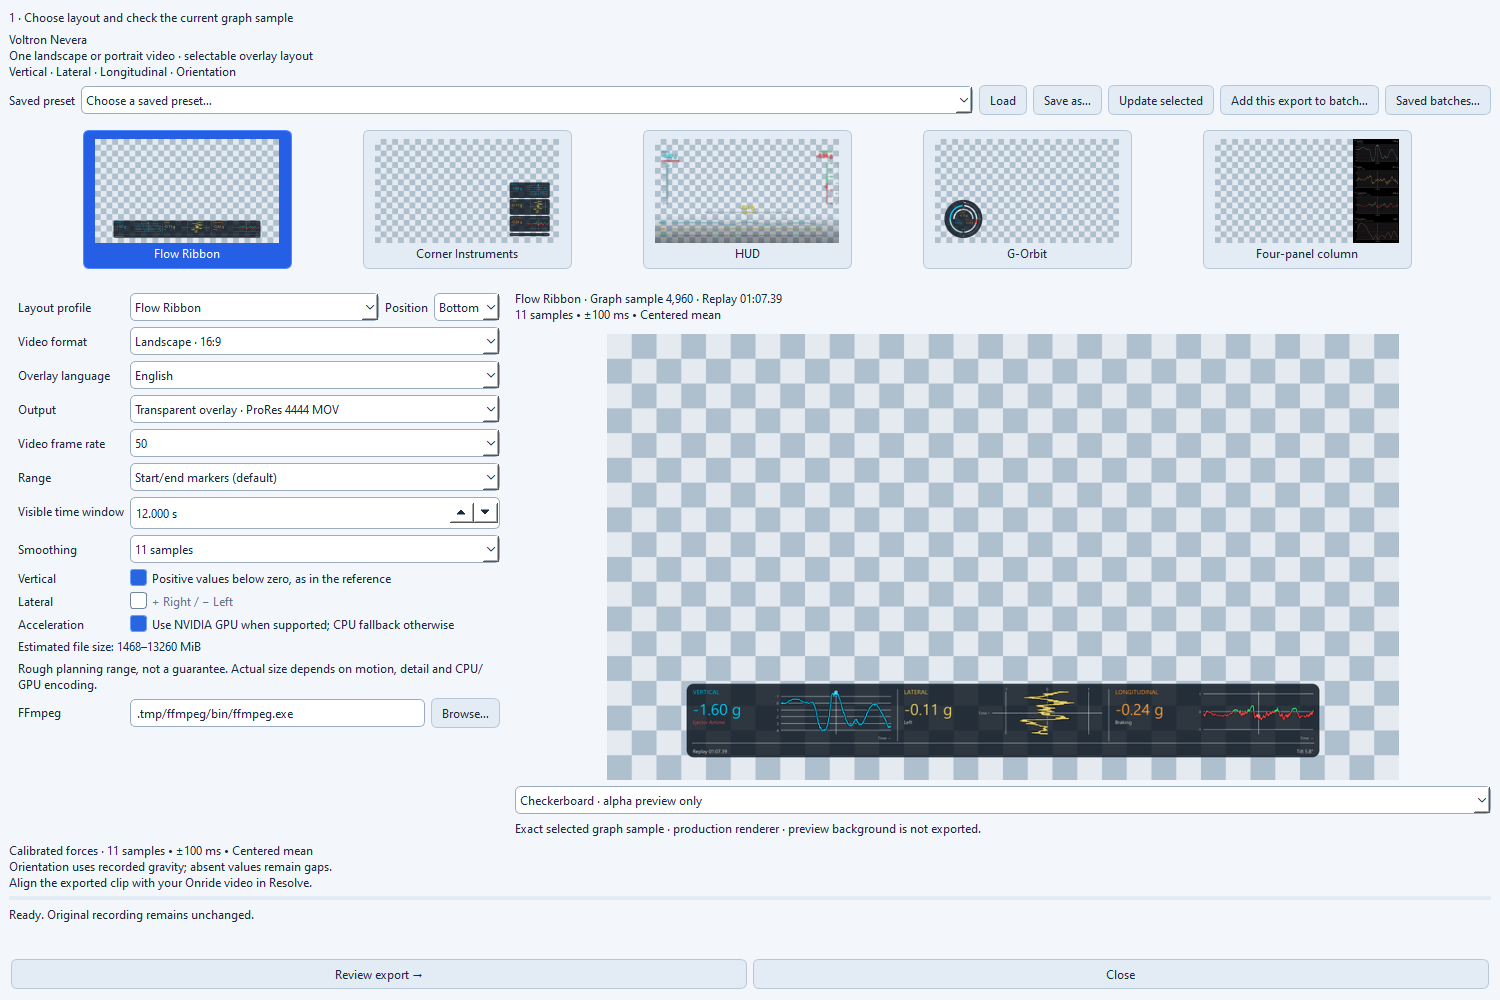
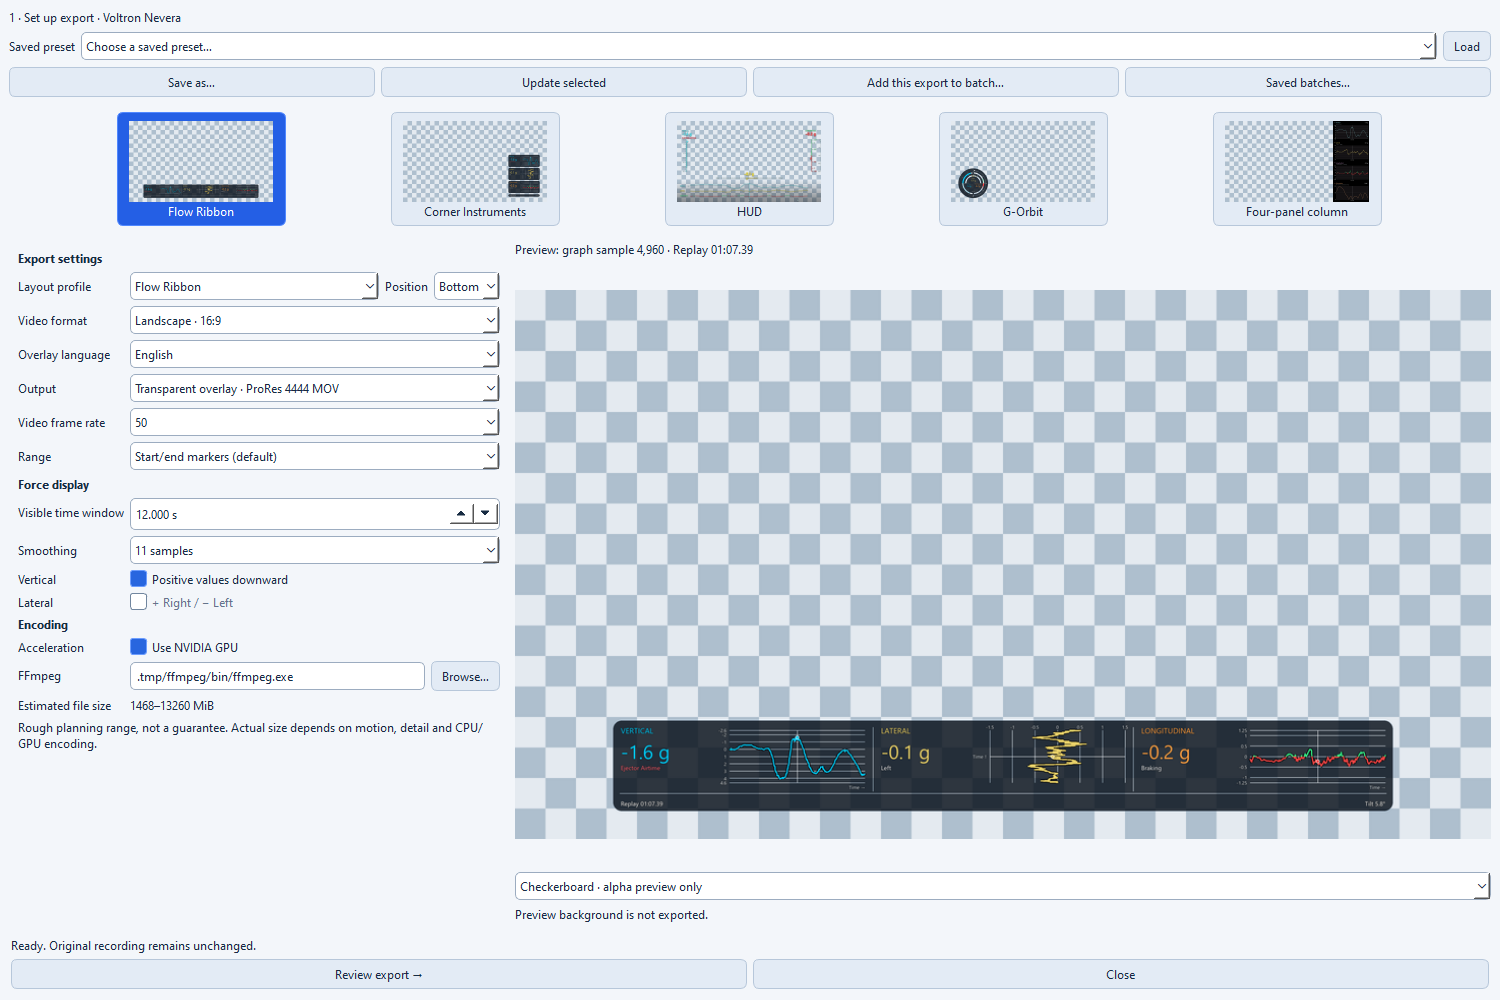
:package: build(packaging): prepare stable release 1.1.0
Why:
Publish the current application and documentation as stable version 1.1.0.

Changes:
- Update application metadata, release examples and version assertions.
- Refresh workspace, GPS, appearance and export-layout reference images.
- Separate G-Orbit endpoint labels at the shared poles and add a regression test.
- Align layout documentation with the 1 g vertical reference.

diff --git a/tests/rendering/test_rendering.py b/tests/rendering/test_rendering.py
@@ -2,7 +2,7 @@
 
 from ride_forces_analyzer.rendering.model import StandardFrameRate
 
-# cspell:words ffprobe frombytes getcolor getcolors getrgb getpixel getchannel getextrema hwupload prores qscale rawvideo libx
+# cspell:words ffprobe frombytes getcolor getcolors getrgb getpixel getchannel getextrema hwupload prores qscale rawvideo libx textbbox
 
 from dataclasses import replace
 from fractions import Fraction
@@ -14,7 +14,7 @@ from threading import Event
 from typing import Literal, cast
 from unittest.mock import patch
 
-from PIL import Image, ImageColor
+from PIL import Image, ImageColor, ImageDraw
 import pytest
 
 from ride_forces_analyzer.analysis.orientation import orientation_degrees
@@ -40,6 +40,29 @@ from ride_forces_analyzer.rendering.layouts.column import BACKGROUND_COLOR, Colu
 from ride_forces_analyzer.rendering.layouts.orbit import OrbitRenderer
 from ride_forces_analyzer.rendering.layouts.hud import HudRenderer
 from tests.support.recordings import REAL_FIXTURE_DIRECTORY, REAL_FIXTURES
+
+
+def test_orbit_outer_scale_endpoint_labels_do_not_overlap(manta: ExplorerData) -> None:
+    assert manta.analysis is not None
+    timeline = prepare_export(manta.analysis, ExportSettings(layout=ExportLayout.ORBIT), 3600, 3699)
+    renderer = OrbitRenderer(timeline)
+    with patch.object(OrbitRenderer, "_text") as text:
+        image = renderer.render_position(3600)
+    draw = ImageDraw.Draw(image)
+    labels = [call.args for call in text.call_args_list if call.args[5] in ("rm", "lm")]
+    assert len(labels) == 4
+    for vertical in (label for label in labels if label[5] == "rm"):
+        longitudinal = next(
+            label for label in labels if label[5] == "lm" and abs(label[1][1] - vertical[1][1]) < 1
+        )
+        left_box = draw.textbbox(vertical[1], vertical[2], font=vertical[3], anchor=vertical[5])
+        right_box = draw.textbbox(
+            longitudinal[1],
+            longitudinal[2],
+            font=longitudinal[3],
+            anchor=longitudinal[5],
+        )
+        assert left_box[2] < right_box[0]
 
 
 @pytest.mark.parametrize(

diff --git a/src/ride_forces_analyzer/rendering/layouts/orbit.py b/src/ride_forces_analyzer/rendering/layouts/orbit.py
@@ -327,13 +327,19 @@ class OrbitRenderer(Drawing):
                     if row == 0 and tick == reference
                     else FORCE_TICK_WIDTH,
                 )
+                label_x, label_y = point(radius + FORCE_TICK_LABEL_OFFSET, a)
+                anchor = TEXT_ANCHOR
+                if row in (0, 2) and tick in (channel.low, channel.high):
+                    # Both outer scales meet at the poles; keep their labels on their own side.
+                    label_x += -12 if row == 0 else 12
+                    anchor = "rm" if row == 0 else "lm"
                 self._text(
                     draw,
-                    point(radius + FORCE_TICK_LABEL_OFFSET, a),
+                    (label_x, label_y),
                     f"{tick:g}",
                     self.tick,
                     SCALE_COLOR,
-                    TEXT_ANCHOR,
+                    anchor,
                 )
             x, y = READOUT_POSITIONS[row]
             self._text(

diff --git a/tests/packaging/test_windows_packages.py b/tests/packaging/test_windows_packages.py
@@ -47,7 +47,7 @@ def test_qt_gui_hook_excludes_only_pdf_plugins(monkeypatch: pytest.MonkeyPatch) 
     assert result["datas"] == [("translations/qtbase_de.qm", "translations")]
 
 
-@pytest.mark.parametrize("version,flags", [("1.0.0", 0), ("1.2.3", 0), ("1.2.3rc2", 2)])
+@pytest.mark.parametrize("version,flags", [("1.1.0", 0), ("1.2.3", 0), ("1.2.3rc2", 2)])
 def test_version_resource_preserves_unicode_and_project_version(
     export_directory: Path,
     version: str,
@@ -81,7 +81,7 @@ def test_version_resource_preserves_unicode_and_project_version(
         if isinstance(node.func, ast.Name) and node.func.id == "FixedFileInfo"
     )
     values = {item.arg: ast.literal_eval(item.value) for item in fixed.keywords}
-    numeric = (1, 0, 0, 0) if version == "1.0.0" else (1, 2, 3, 0)
+    numeric = (1, 1, 0, 0) if version == "1.1.0" else (1, 2, 3, 0)
     assert values == {"filevers": numeric, "prodvers": numeric, "flags": flags}
 
 

diff --git a/tests/packaging/test_release_policy.py b/tests/packaging/test_release_policy.py
@@ -19,13 +19,13 @@ verify_merged_prs = cast(Callable[[object, str], None], MODULE["verify_merged_pr
 
 @pytest.mark.parametrize(
     "version,preview",
-    [("0.1.0", True), ("1.0.0", False), ("1.0.0rc1", True)],
+    [("0.1.0", True), ("1.1.0", False), ("1.1.0rc1", True)],
 )
 def test_release_classification(version: str, preview: bool) -> None:
     assert is_prerelease(f"v{version}", version) is preview
 
 
-@pytest.mark.parametrize("tag,version", [("v0.3.1", "0.1.0"), ("v1.0.0", "invalid")])
+@pytest.mark.parametrize("tag,version", [("v0.3.1", "0.1.0"), ("v1.1.0", "invalid")])
 def test_bad_release_version_is_rejected(tag: str, version: str) -> None:
     with pytest.raises(ValueError, match="project.version"):
         is_prerelease(tag, version)

diff --git a/src/ride_forces_analyzer/__init__.py b/src/ride_forces_analyzer/__init__.py
@@ -4,4 +4,4 @@ Copyright (c) 2026 Björn Rudner.
 SPDX-License-Identifier: GPL-3.0-or-later
 """
 
-__version__ = "1.0.0"
+__version__ = "1.1.0"

diff --git a/docs/development/RELEASE.md b/docs/development/RELEASE.md
@@ -23,8 +23,7 @@ policy, package construction and publication.
   be contained in `origin/main` and associated with a merged PR targeting this
   repository's `main`. Full CI, including mandatory Gitleaks history scanning,
   must pass for that same revision.
-- Version `1.0.0` is the first stable release. Stable releases use plain numeric
-  versions and are published as the latest release.
+- Stable releases use plain numeric versions and are published as the latest release.
 - Paid code signing and macOS notarization are not release gates; the
   [distribution constraints](../architecture/02_architecture_constraints.md#distribution-constraints)
   define the accepted signing limitations.
@@ -51,7 +50,7 @@ To retry publication of an existing tag after a workflow correction, dispatch th
 current workflow from `main` with the `tag` input, for example:
 
 ```powershell
-gh workflow run source-release.yml --ref main -f tag=v1.0.0
+gh workflow run source-release.yml --ref main -f tag=v1.1.0
 ```
 
 Quality checks use the current workflow definition and check out the resolved

diff --git a/docs/EXPORT_THEMES.md b/docs/EXPORT_THEMES.md
@@ -17,8 +17,8 @@ The overview preserves placement in the full 3840×2160 landscape canvas.
 Checkerboards illustrate transparent space and translucent panels; they are
 not exported. Detail views below enlarge each instrument region.
 These are actual production-renderer frames, not interface mockups.
-All layouts default to positive vertical forces below zero (seat pressure) and
-negative forces above zero (lifting), with unchanged signed readouts.
+All layouts default to increasing vertical forces downward and decreasing forces
+upward, using a 1 g reference with unchanged absolute readouts.
 Compact lateral histories advance upward in time and deflect left/right around a
 centered zero axis. G-Orbit shows the current lateral force on an upper inner
 semicircle: negative left, positive right, with equal scale in both directions.

diff --git a/README.md b/README.md
@@ -45,7 +45,7 @@ No Python installation is needed. The Windows Complete ZIP includes FFmpeg for
 video export; Linux and macOS need it installed separately. Windows EXE and
 Standard ZIP downloads are also available if you prefer to use your own FFmpeg.
 
-Version **1.0.0** is the first stable release. Windows and macOS may display a security warning
+Version **1.1.0** is a stable release. Windows and macOS may display a security warning
 when you first open the app.
 Follow the [installation guide](docs/user/INSTALLATION.md) for download
 verification, Linux prerequisites and first-launch instructions.

diff --git a/docs/images/README.md b/docs/images/README.md
@@ -33,6 +33,7 @@ Program code has its own GPL license; supplied recordings have a separate
 ## Image content and reproduction
 
 All images use the actual application or production renderer, in English.
+Workspace and appearance screenshots show version 1.1.0.
 Checkerboards illustrate transparency and are not part of exported videos.
 HUD placement views are enlarged to illustrate a 4K editing timeline; its video
 export retains the native 1920×1080 or 1080×1920 resolution.

diff --git a/docs/user/INSTALLATION.md b/docs/user/INSTALLATION.md
@@ -5,7 +5,7 @@
 Download your platform's package and checksum file from
 [GitHub Releases](https://github.com/rudnerbjoern/ride-forces-analyzer/releases).
 The application includes Python; no Python installation or setup script is needed.
-In commands below, replace `VERSION` with the downloaded version, such as `1.0.0`.
+In commands below, replace `VERSION` with the downloaded version, such as `1.1.0`.
 
 ## Windows 10/11 x64
 
